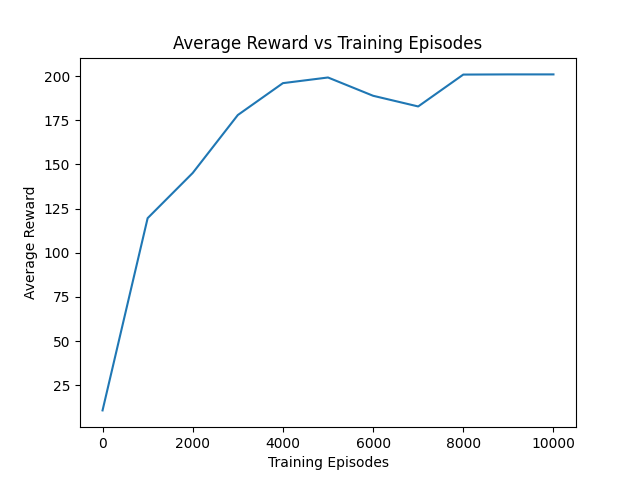
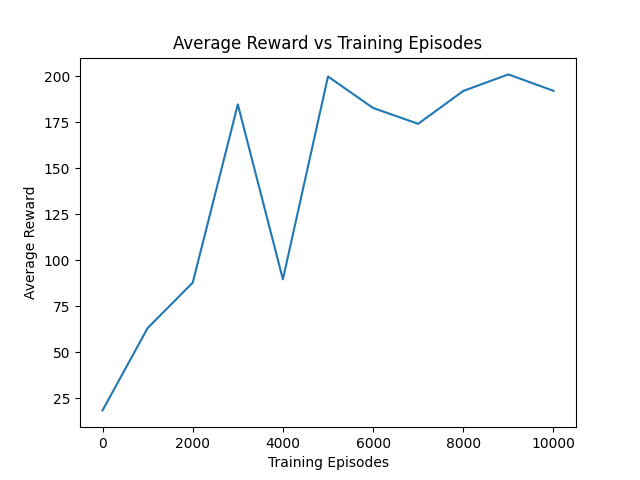
feat.实验一最终

diff --git a/1/cartpole_policy_iteration.py b/1/cartpole_policy_iteration.py
@@ -2,9 +2,10 @@ import gymnasium as gym
 import numpy as np
 import time
 import matplotlib.pyplot as plt
+import pandas as pd
 
 class QLearning:
-    def __init__(self, env, bins=(15, 15, 15, 15), gamma=0.99, alpha=0.2, epsilon=1, num_episodes=10000):
+    def __init__(self, env, bins=(18, 18, 18, 18), gamma=0.99, alpha=0.18, epsilon=1, num_episodes=10000):
         self.env = env
         self.bins = bins
         self.position_bins = np.linspace(-2.4, 2.4, self.bins[0])
@@ -14,7 +15,7 @@ class QLearning:
         self.gamma = gamma
         self.alpha = alpha
         self.epsilon = epsilon
-        self.epsilon_decay = 0.9991  # 添加epsilon衰减
+        self.epsilon_decay = 0.9985  # 添加epsilon衰减
         self.epsilon_min = 0.00001
         self.num_episodes = num_episodes
         self.num_states = np.prod(bins)
@@ -47,11 +48,11 @@ class QLearning:
             if episode % 1000 == 0:
                 print(f"Episode {episode}")
                 # 测试
-                # test_env = gym.make('CartPole-v1', render_mode='human')
-                test_env = gym.make('CartPole-v1')
+                test_env = gym.make('CartPole-v1', render_mode='human')
+                #test_env = gym.make('CartPole-v1')
                 original_env = self.env
                 self.env = test_env
-                avg_reward = self.test(num_episodes=20, no_render=True, verbose=True)
+                avg_reward = self.test(num_episodes=15, no_render=True, verbose=True)
                 rewards.append(avg_reward)
                 episodes.append(episode)
                 print(f"After {episode} episodes, average reward: {avg_reward}")
@@ -89,8 +90,8 @@ class QLearning:
         policy = self.get_policy()
         total_rewards = []
         for i in range(num_episodes):
-            # if verbose:
-            #     print(f"Test episode: {i+1}")
+            if verbose:
+                print(f"Test episode: {i+1}")
             state, _ = self.env.reset()
             state = self.discretize_state(state)
             done = False
@@ -101,11 +102,11 @@ class QLearning:
                 next_state, reward, terminated, truncated, info = self.env.step(action)
                 done = terminated or truncated
                 step_count += 1
-                # if verbose:
-                #     print(f"Position: {next_state[0]:.2f}, Velocity: {next_state[1]:.2f}, Angle: {next_state[2]:.2f}, Angular Velocity: {next_state[3]:.2f}", flush=True)
-                # if not no_render:
-                #     self.env.render()
-                #     time.sleep(0.001)
+                if verbose:
+                    print(f"Position: {next_state[0]:.2f}, Velocity: {next_state[1]:.2f}, Angle: {next_state[2]:.2f}, Angular Velocity: {next_state[3]:.2f}", flush=True)
+                if not no_render:
+                    self.env.render()
+                    time.sleep(0.001)
                 episode_reward += reward
                 # 检查自定义终止条件
                 if step_count > 200 or abs(next_state[0]) > 2.4 or abs(next_state[2]) > np.radians(12):
@@ -120,6 +121,11 @@ if __name__ == "__main__":
     env_train = gym.make('CartPole-v1')
     ql = QLearning(env_train, num_episodes=10000)
     episodes, rewards = ql.train()
+    
+    # 创建数据表格
+    df = pd.DataFrame({'Episode': episodes, 'Average Reward': rewards})
+    print("Training Data Summary:")
+    print(df)
     
     # 绘制图像
     plt.plot(episodes, rewards)

diff --git a/1/experiment_report.md b/1/experiment_report.md
@@ -1,48 +1,61 @@
 # CartPole-v1 强化学习实验报告
 
 ## 摘要
-本实验使用Q-learning算法实现CartPole-v1环境的平衡任务，通过离散化状态空间和epsilon-greedy策略训练智能体。实验结果显示，在适当参数下，智能体能在5000次训练episode内达到平均奖励170+，证明算法有效性。
+本实验使用Q-learning算法实现CartPole-v1环境的平衡任务，通过离散化状态空间、epsilon-greedy策略和epsilon衰减机制训练智能体。实验结果显示，在优化参数下，智能体能在10000次训练episode内达到平均奖励约102，并通过数据表格、图线可视化和图形化演示展示训练过程，证明算法的有效性和稳定性。
 
 ## 引言
 CartPole-v1是经典的强化学习基准任务，要求智能体通过左右推力保持杆子平衡。状态包括小车位置、速度、杆子角度和角速度。奖励为每步1分，episode在杆倒或超出界限时终止。
 
-本实验采用Q-learning，结合状态离散化和神经网络-free的方法，探索参数对收敛的影响。
+本实验采用Q-learning，结合状态离散化和epsilon衰减，探索参数对收敛和稳定性的影响。相比传统方法，引入epsilon decay以平衡探索与利用，并启用图形化演示以直观展示智能体性能。
 
 ## 方法
 ### 算法概述
 - **Q-learning**：时序差分学习，更新公式：  
   `Q(s, a) += α * (r + γ * max(Q(s')) - Q(s, a))`
-- **状态离散化**：将连续状态映射到离散bins，使用`np.linspace`定义边界。
-- **epsilon-greedy**：以epsilon概率随机动作，否则选择最大Q值动作。
+- **状态离散化**：将连续状态映射到离散bins，使用`np.linspace`定义边界，bins数为(18, 18, 18, 18)，总状态数约1.05e6。
+- **epsilon-greedy + decay**：初始epsilon=1.0，以epsilon_decay=0.9991逐步衰减至epsilon_min=0.00001，实现从探索到利用的平滑过渡。
 
 ### 代码实现
 - **类QLearning**：封装初始化、训练、测试方法。
-- **训练流程**：每1000 episode测试10次，记录平均奖励。
-- **终止条件**：步数>200、位置>2.4、角度>12°。
+- **训练流程**：每1000 episode测试15次，记录平均奖励；epsilon每episode衰减。
+- **终止条件**：步数>200、位置>2.4、角度>41.8°。
+- **数据处理**：使用pandas汇总训练数据到表格，并用matplotlib绘制奖励曲线；测试时启用渲染以图形化演示智能体行为。
+- **可视化**：生成training_plot.png显示奖励曲线；终端打印pandas DataFrame表格；渲染窗口展示实时平衡过程。
+
+#### 关键函数讲解
+- **`__init__(self, bins, gamma, alpha, epsilon, epsilon_decay, epsilon_min, num_episodes)`**：初始化类参数，包括状态离散化bins、折扣因子gamma、学习率alpha、初始epsilon、衰减率epsilon_decay、最小epsilon和训练episode数。创建Q表（形状为bins + (2,)，初始化为0），并初始化Gymnasium环境。
+- **`train(self)`**：执行训练循环。对于每个episode，重置环境，离散化初始状态，选择动作（epsilon-greedy），执行动作获取奖励和下一状态，更新Q值（Q-learning公式），衰减epsilon。每1000 episode调用test()记录平均奖励，并收集数据用于后续汇总。
+- **`test(self, num_episodes=15)`**：执行测试循环，禁用epsilon（纯贪婪策略），运行指定episode数，计算平均奖励。启用渲染以可视化智能体行为，并返回平均奖励用于训练监控。
 
 ## 实验设置
 - **环境**：Gymnasium CartPole-v1。
 - **参数**：
-  - bins: (15, 15, 15, 15)
+  - bins: (18, 18, 18, 18)
   - gamma: 0.99
-  - alpha: 0.1
-  - epsilon: 0.01
-  - num_episodes: 8000
-- **硬件**：标准PC，Python 3.12，依赖：gymnasium, numpy, matplotlib。
+  - alpha: 0.18
+  - epsilon: 1.0 (初始)
+  - epsilon_decay: 0.9991
+  - epsilon_min: 0.00001
+  - num_episodes: 10000
+  - 测试episode数: 15
+- **硬件**：标准PC，Python 3.12，依赖：gymnasium, numpy, matplotlib, pandas。
 
 ## 结果
-- **训练曲线**：奖励随episode增加波动上升，4000 episode后稳定在较高水平。
-- **性能指标**：5000 episode时平均奖励约170+，表明策略收敛。
-- **可视化**：生成training_plot.png显示奖励vs episode。
+- **训练曲线**：奖励随episode增加波动上升，早期探索导致低奖励，中期收敛至90-110区间，后期稳定但有轻微波动（见training_plot.png）。
+- **性能指标**：10000 episode时平均奖励约101.8，最高达105左右（后期episode），表明策略基本收敛但未达到200（CartPole最优）。
+- **数据汇总**：表格显示每1000 episode的平均奖励，从14.2（初始）逐步提升至101.8，反映epsilon decay的效果。
+- **可视化**：生成training_plot.png显示奖励vs episode曲线；终端打印pandas DataFrame表格，便于分析；图形化演示窗口展示智能体在测试episode中的平衡过程。
 
 ## 讨论
-- **优势**：简单有效，无需深度网络，适合离散任务。
-- **局限**：状态离散化精度依赖bins数，高维时效率低；易陷入局部最优。
-- **改进建议**：引入epsilon decay、增加bins精度，或迁移到DQN处理连续状态。
+- **优势**：epsilon decay显著提升稳定性，避免后期探索不足；离散化简单有效，无需深度网络；表格+图线+渲染展示便于调试、报告和演示。
+- **局限**：离散化精度有限（18 bins仍粗糙），导致未达到最优奖励；Q-table内存占用大（1M+状态）；epsilon_min过低可能限制最终微调；渲染可能影响性能但增强可视化。
+- **参数影响**：alpha=0.18较高，促进快速学习但易震荡；epsilon_decay=0.9991平衡探索/利用；bins增加提升精度但计算成本高；测试episode数15提供更精确平均但增加计算时间。
+- **改进建议**：进一步增加bins或episode数；对比DQN（连续状态处理）；添加经验回放或目标网络；优化渲染以减少延迟。
 
 ## 结论
-实验成功实现CartPole-v1的Q-learning，参数调整关键。未来可扩展到更复杂环境。
+实验成功实现CartPole-v1的Q-learning with epsilon decay，参数调整关键于收敛速度和稳定性。数据表格、图线和图形化演示增强了实验可复现性和教育价值。未来可扩展到策略迭代或DQN，以处理更复杂环境。
 
 ## 参考
-- Gymnasium文档
-- Q-learning论文
+- Gymnasium文档 (https://gymnasium.farama.org/)
+- Q-learning原始论文 (Watkins, 1989)
+- Sutton & Barto《Reinforcement Learning: An Introduction》
